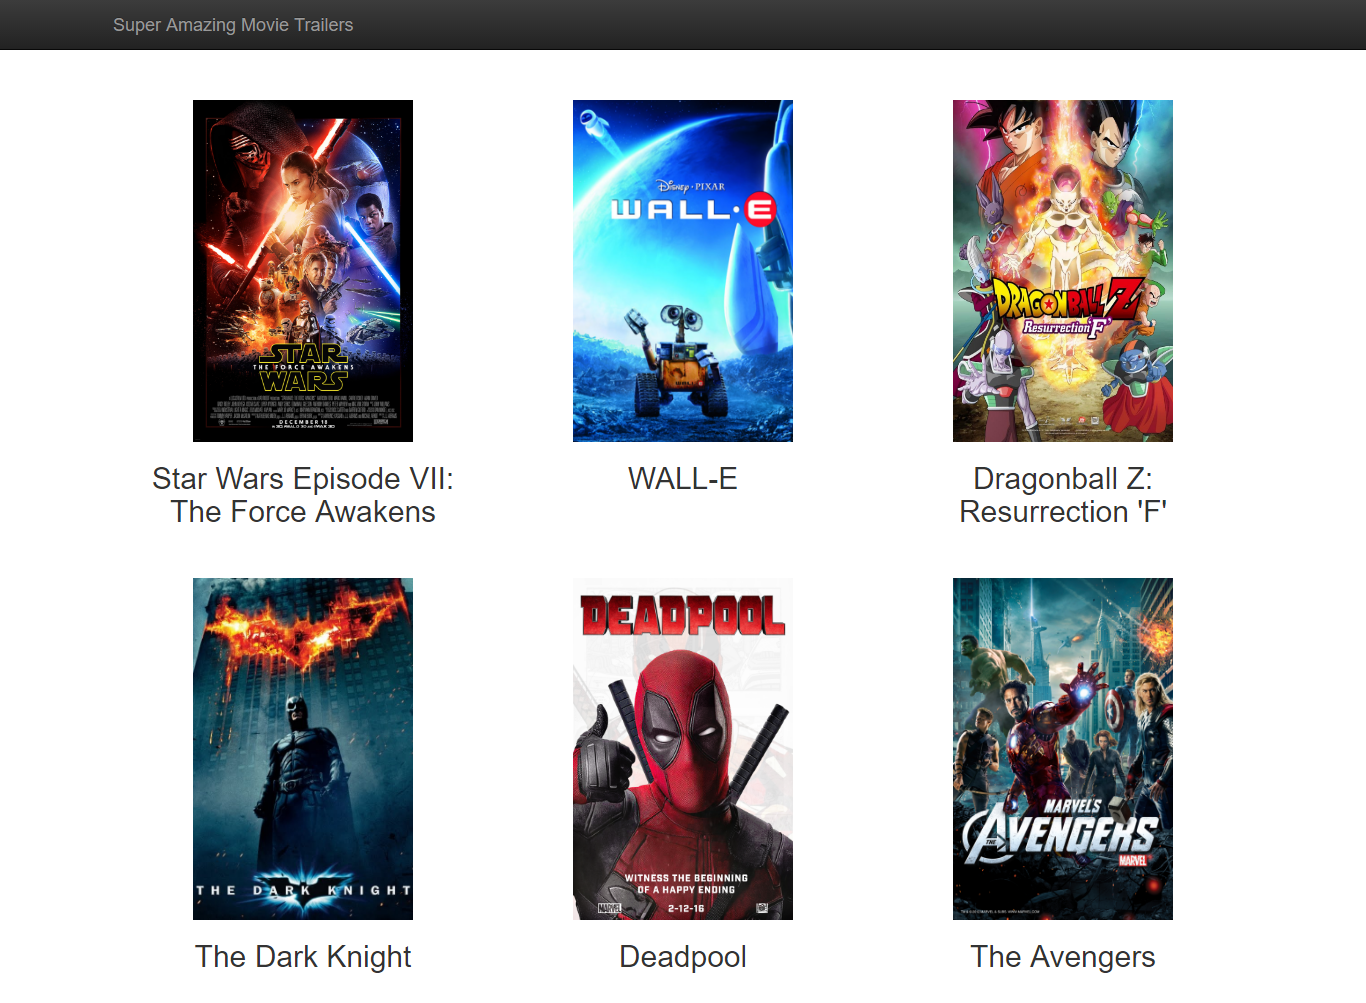
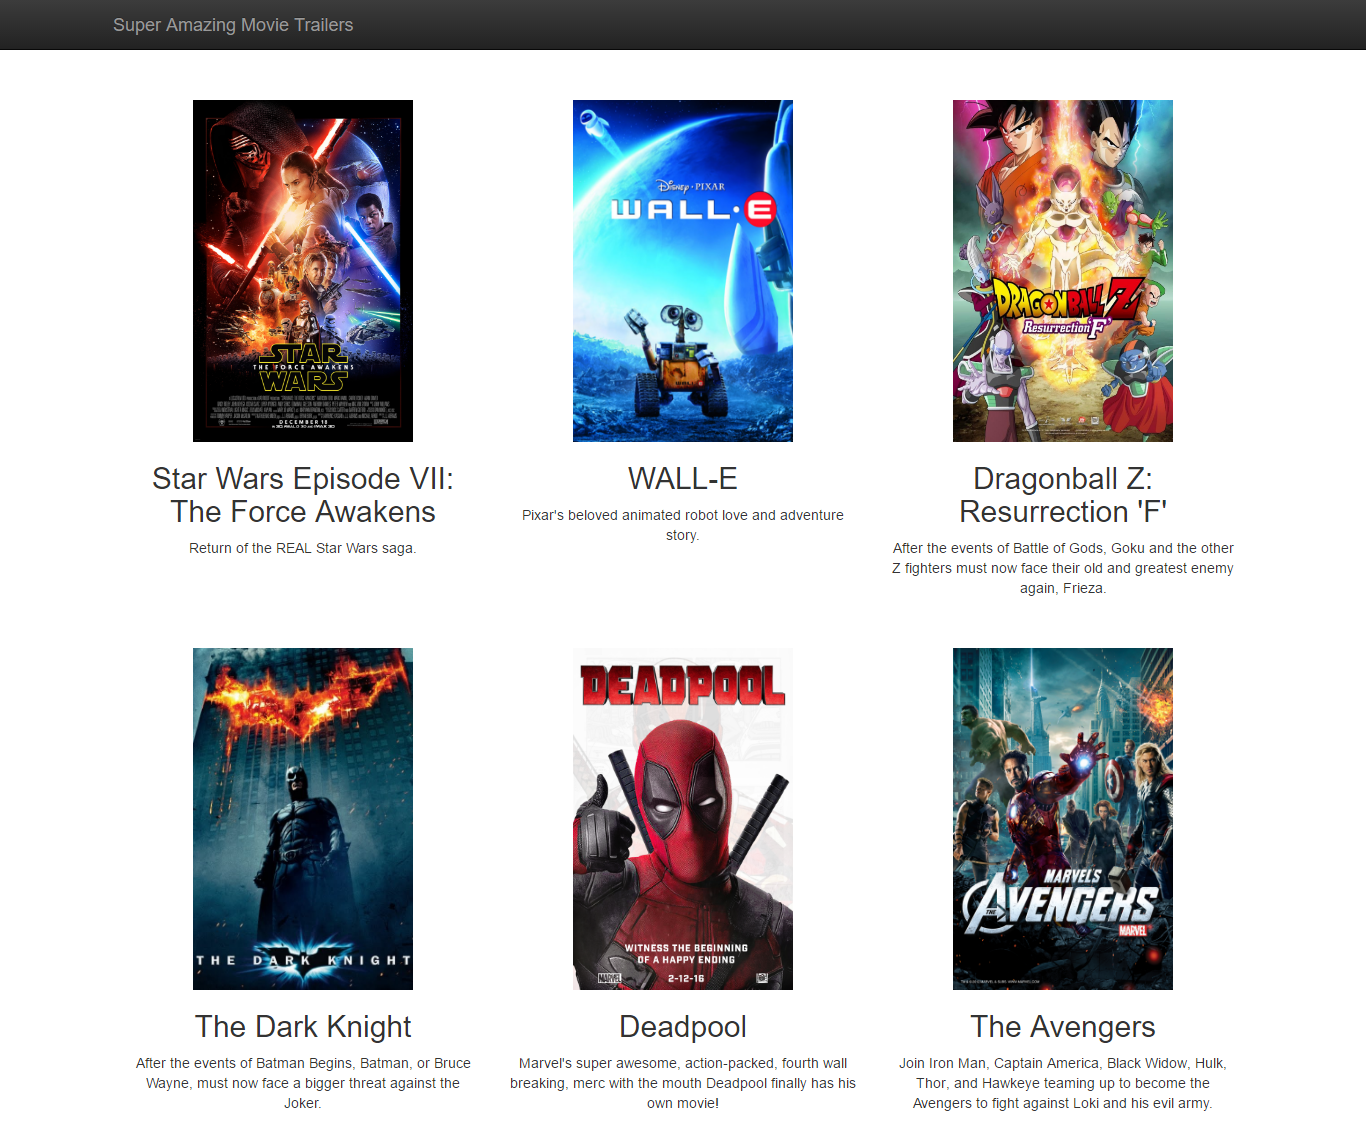
Added storyline at the bottom of the movie titles.

diff --git a/movie_trailers.html b/movie_trailers.html
@@ -108,31 +108,37 @@
 <div class="col-md-6 col-lg-4 movie-tile text-center" data-trailer-youtube-id="sGbxmsDFVnE" data-toggle="modal" data-target="#trailer">
     <img src="http://vignette2.wikia.nocookie.net/starwars/images/f/fd/Star_Wars_Episode_VII_The_Force_Awakens.jpg/revision/latest?cb=20151018162823" width="220" height="342">
     <h2>Star Wars Episode VII: The Force Awakens</h2>
+    <p>Return of the REAL Star Wars saga.</p>
 </div>
 
 <div class="col-md-6 col-lg-4 movie-tile text-center" data-trailer-youtube-id="alIq_wG9FNk" data-toggle="modal" data-target="#trailer">
     <img src="http://mtv.mtvnimages.com/shared/media/images/acovers/standard/dra300/a317/a31768yolvd.jpg" width="220" height="342">
     <h2>WALL-E</h2>
+    <p>Pixar's beloved animated robot love and adventure story.</p>
 </div>
 
 <div class="col-md-6 col-lg-4 movie-tile text-center" data-trailer-youtube-id="WiONylGn8Xw" data-toggle="modal" data-target="#trailer">
     <img src="http://www.dragonballinsider.com/wp-content/uploads/2015/07/dbzrfjpg.jpg" width="220" height="342">
     <h2>Dragonball Z: Resurrection 'F'</h2>
+    <p>After the events of Battle of Gods, Goku and the other Z fighters must now face their old and greatest enemy again, Frieza.</p>
 </div>
 
 <div class="col-md-6 col-lg-4 movie-tile text-center" data-trailer-youtube-id="yrJL5JxEYIw" data-toggle="modal" data-target="#trailer">
     <img src="https://smilingldsgirl.files.wordpress.com/2013/06/xemphimso_ky-si-bong-dem-1.jpg" width="220" height="342">
     <h2>The Dark Knight</h2>
+    <p>After the events of Batman Begins, Batman, or Bruce Wayne, must now face a bigger threat against the Joker.</p>
 </div>
 
 <div class="col-md-6 col-lg-4 movie-tile text-center" data-trailer-youtube-id="ONHBaC-pfsk" data-toggle="modal" data-target="#trailer">
     <img src="https://mir-s3-cdn-cf.behance.net/project_modules/max_1200/02cc1333658190.56b2c8ea3720a.png" width="220" height="342">
     <h2>Deadpool</h2>
+    <p>Marvel's super awesome, action-packed, fourth wall breaking, merc with the mouth Deadpool finally has his own movie!</p>
 </div>
 
 <div class="col-md-6 col-lg-4 movie-tile text-center" data-trailer-youtube-id="eOrNdBpGMv8" data-toggle="modal" data-target="#trailer">
     <img src="http://billal-chendar.esy.es/img/culture/film/avengers.jpg" width="220" height="342">
     <h2>The Avengers</h2>
+    <p>Join Iron Man, Captain America, Black Widow, Hulk, Thor, and Hawkeye teaming up to become the Avengers to fight against Loki and his evil army.</p>
 </div>
 
     </div>

diff --git a/fresh_tomatoes.py b/fresh_tomatoes.py
@@ -126,6 +126,7 @@ movie_tile_content = '''
 <div class="col-md-6 col-lg-4 movie-tile text-center" data-trailer-youtube-id="{trailer_youtube_id}" data-toggle="modal" data-target="#trailer">
     <img src="{poster_image_url}" width="220" height="342">
     <h2>{movie_title}</h2>
+    <p>{storyline}</p>
 </div>
 '''
 
@@ -145,6 +146,7 @@ def create_movie_tiles_content(movies):
         # Append the tile for the movie with its content filled in
         content += movie_tile_content.format(
             movie_title=movie.title,
+            storyline = movie.storyline,
             poster_image_url=movie.poster_image_url,
             trailer_youtube_id=trailer_youtube_id
         )
